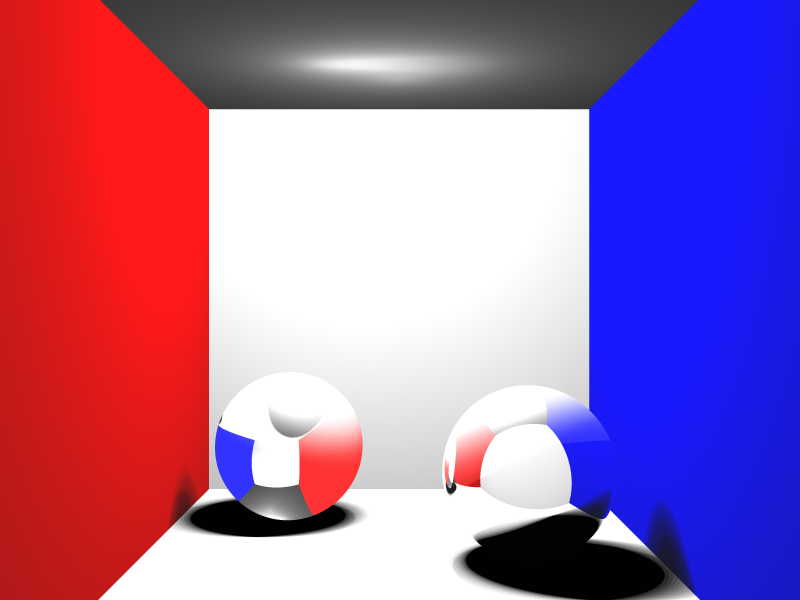
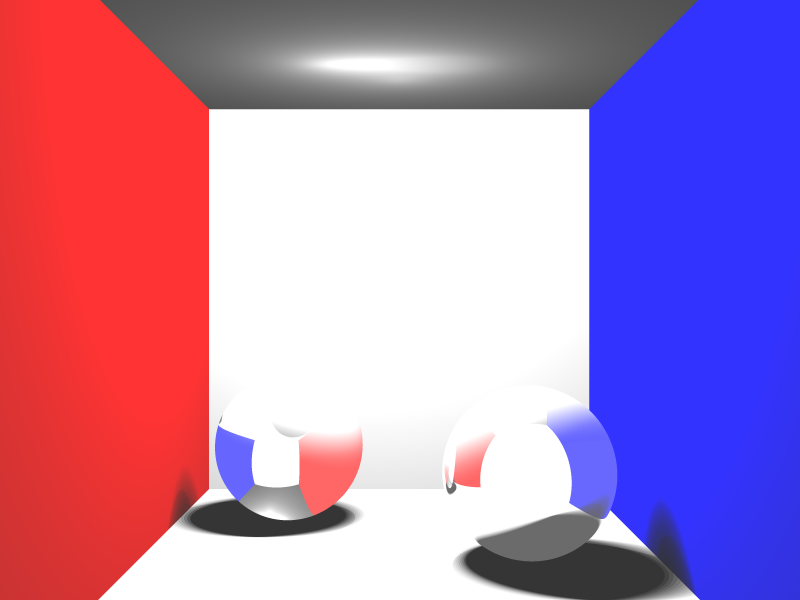
Add transparent Sphere within the other transparent Sphere (not working, yet)

diff --git a/VCG_Raytracer/src/Main.java b/VCG_Raytracer/src/Main.java
@@ -40,7 +40,7 @@ import java.io.File;
 // Main application class. This is the routine called by the JVM to run the program.
 public class Main {
 
-    static RgbColor AMBIENT_LIGHT = new RgbColor(0.1f, 0.1f, 0.1f);
+    static RgbColor AMBIENT_LIGHT = new RgbColor(0.2f, 0.2f, 0.2f);
 
     static int IMAGE_WIDTH = 800;
     static int IMAGE_HEIGHT = 600;
@@ -126,11 +126,11 @@ public class Main {
         // Materials: Ambient Color, Diffuse Coeeff, Specular Coeff, Shininess, Material
         Material sphereMaterial1 = new PhongMaterial(RgbColor.WHITE, RgbColor.WHITE, PhongMaterial.SHINY, Material.NO_REFLECTION, Material.DIAMOND);
         Material sphereMaterial2 = new PhongMaterial(RgbColor.WHITE, RgbColor.WHITE, PhongMaterial.VERY_SHINY, Material.TOTAL_REFLECTION, Material.NO_TRANSMISSION);
-        Material sphereMaterial3 = new PhongMaterial(RgbColor.YELLOW, RgbColor.WHITE, PhongMaterial.SHINY, Material.TOTAL_REFLECTION, Material.NO_TRANSMISSION);
+        Material sphereMaterial3 = new PhongMaterial(RgbColor.WHITE, RgbColor.WHITE, PhongMaterial.SHINY, Material.NO_REFLECTION, Material.AIR);
 
         renderScene.createSphere(new Vec3(-DIMENSION/2f, -DIMENSION + sphereRadius, -DIMENSION/3f+3), sphereMaterial1, sphereRadius);
         renderScene.createSphere(new Vec3(DIMENSION/2f, -DIMENSION + sphereRadius, DIMENSION/3f+3), sphereMaterial2, sphereRadius);
-        //renderScene.createSphere(new Vec3(0, DIMENSION-0.1f, DIMENSION-1 ), sphereMaterial3, 0.2f);
+        renderScene.createSphere(new Vec3(-DIMENSION/2f, -DIMENSION + sphereRadius, -DIMENSION/3f+3), sphereMaterial3, sphereRadius - 0.2f);
     }
 
     private static void setupCornellBox(Scene renderScene) {
@@ -141,7 +141,7 @@ public class Main {
 
         renderScene.createPlane(new Vec3( DIMENSION, 0f, 0 ), planeMaterialLeft, Plane.FACING_LEFT);
         renderScene.createPlane(new Vec3( -DIMENSION, 0f, 0 ), planeMaterialRight, Plane.FACING_RIGHT);
-        renderScene.createPlane(new Vec3( 0f, 0f, 2*DIMENSION ), planeMaterial, Plane.FACING_FRONT);
+        renderScene.createPlane(new Vec3( 0f, 0f, 2 * DIMENSION ), planeMaterial, Plane.FACING_FRONT);
         renderScene.createPlane(new Vec3( 0f, 0f, 0f ), planeMaterial, Plane.FACING_BACK);
         renderScene.createPlane(new Vec3( 0f, -DIMENSION, 0 ), planeMaterial, Plane.FACING_UP);
         renderScene.createPlane(new Vec3( 0f, DIMENSION, 0 ), planeMaterial, Plane.FACING_DOWN);

diff --git a/VCG_Raytracer/src/raytracer/Raytracer.java b/VCG_Raytracer/src/raytracer/Raytracer.java
@@ -139,7 +139,7 @@ public class Raytracer {
 
         // Shadow: Something was hit in between of the light source and the current shape. Draw ambient
         if( illuColor.equals( RgbColor.BLACK ) ){
-            return illuColor.add( calculateShadowColor( finalIntersection.getShape() )).multScalar( 1f / (( float )mLightList.size() * 20f));
+            illuColor = illuColor.add( calculateShadowColor( finalIntersection.getShape() )).multScalar( 1f / (( float )mLightList.size() * 20f));
         }
 
         // No shadow: finally add ambient color to each object only once
